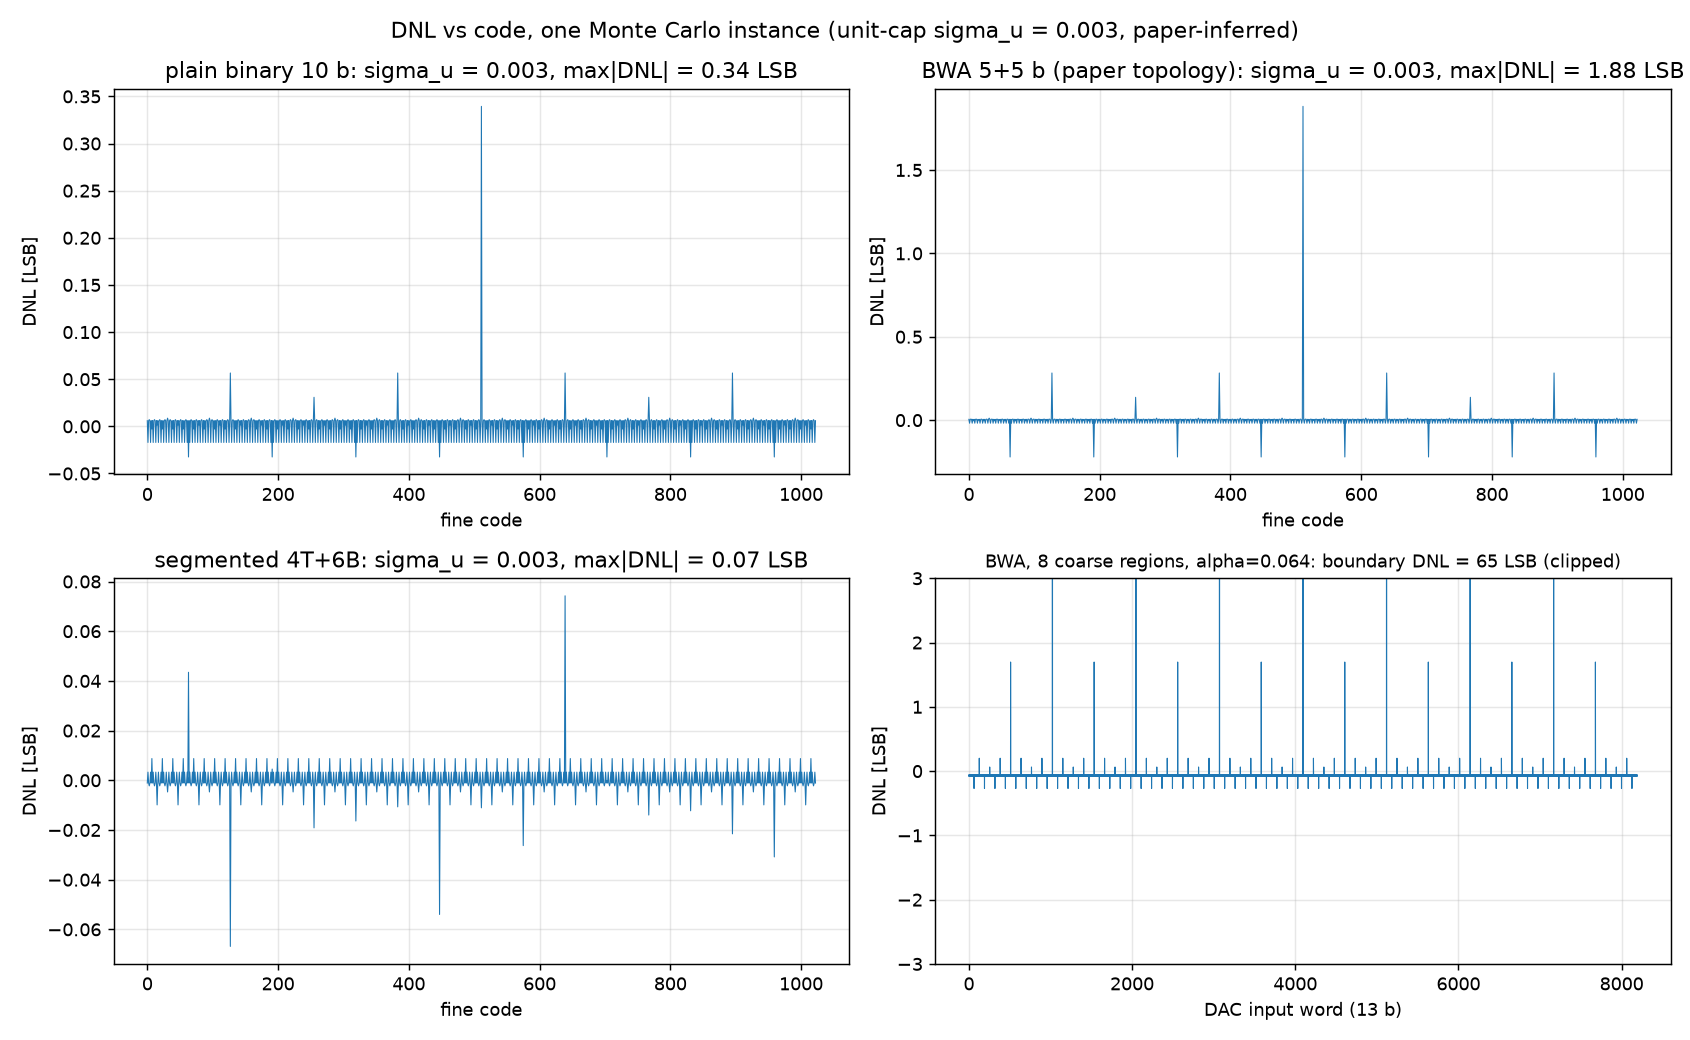
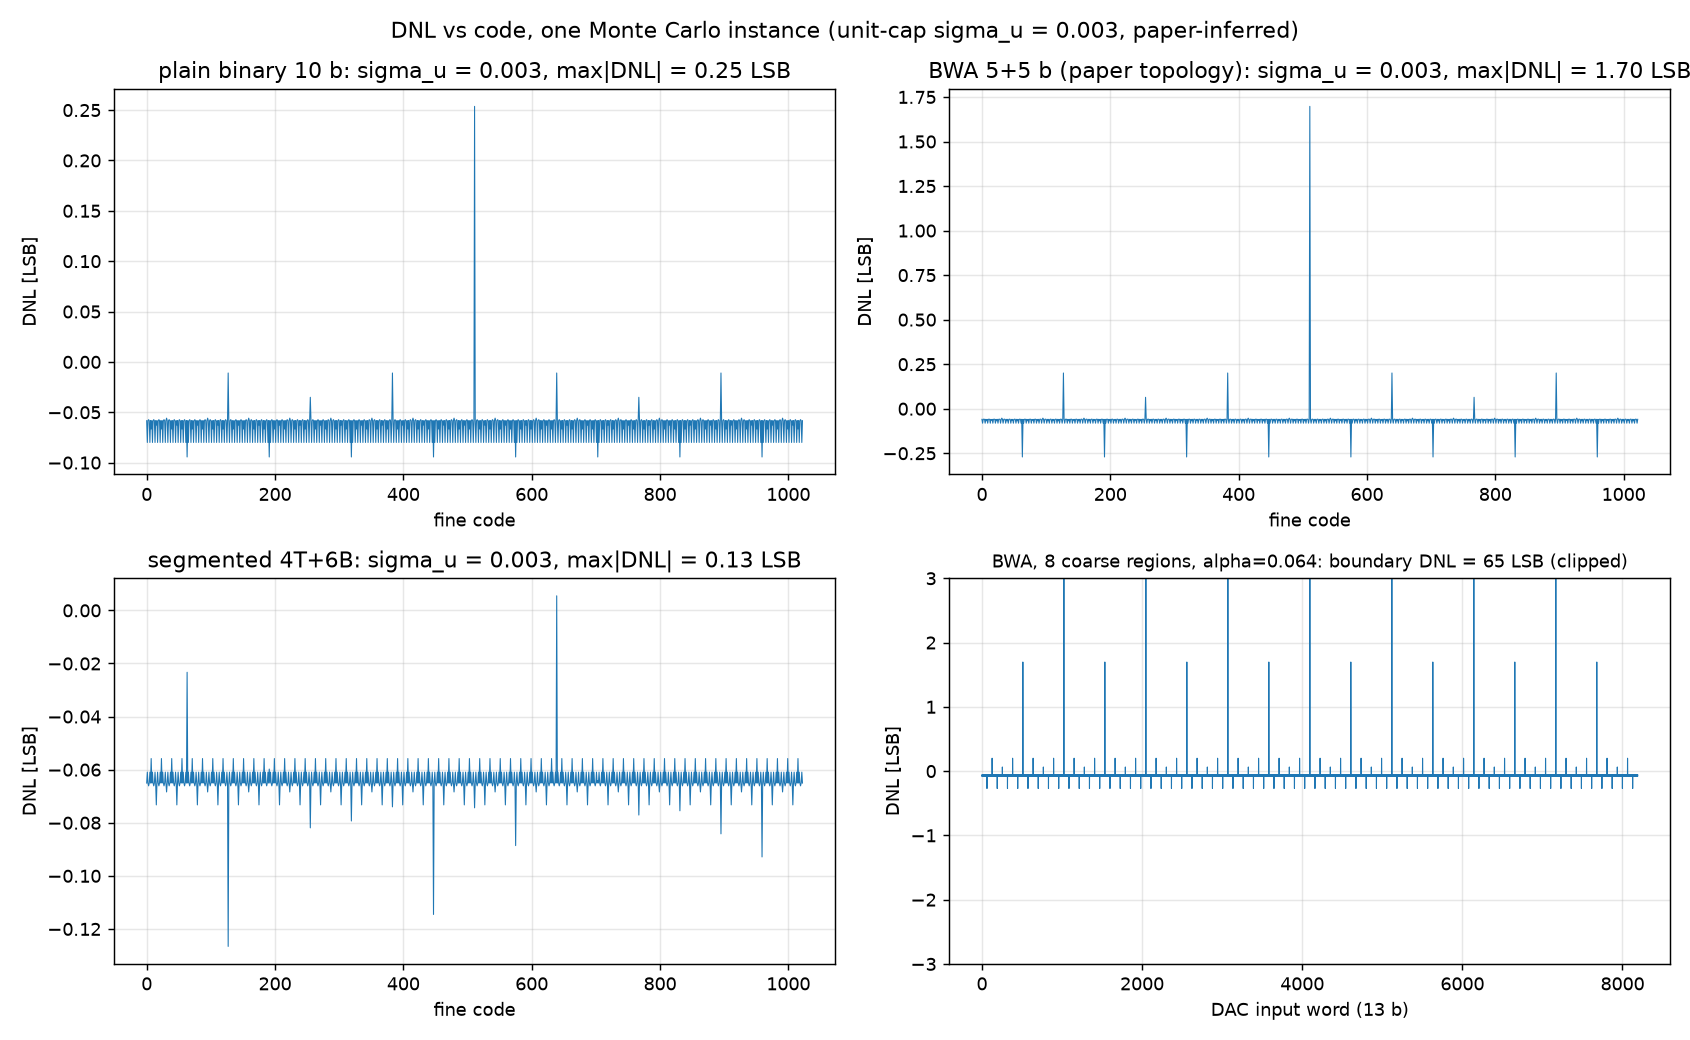
3

diff --git a/model/bias_dac_v2.py b/model/bias_dac_v2.py
@@ -52,7 +52,7 @@ class DACParams:
     sigma_u: float = 0.003      # [Paper Sec. IV-C] sigma0 = 0.003 C0 (inferred by the paper)
     seed: int = 0
     # --- parasitic / region gain --------------------------------------------
-    enable_parasitic: bool = False
+    enable_parasitic: bool = True
     alpha: float = 0.064        # [Paper-read Fig. 9(a)] ~8 mV jump / 125 mV span
     reset_to: str = "vl"        # "vl": top plate reset to VL (region start pinned) | "gnd"
     # --- gain / offset (global, behavioral) ----------------------------------
